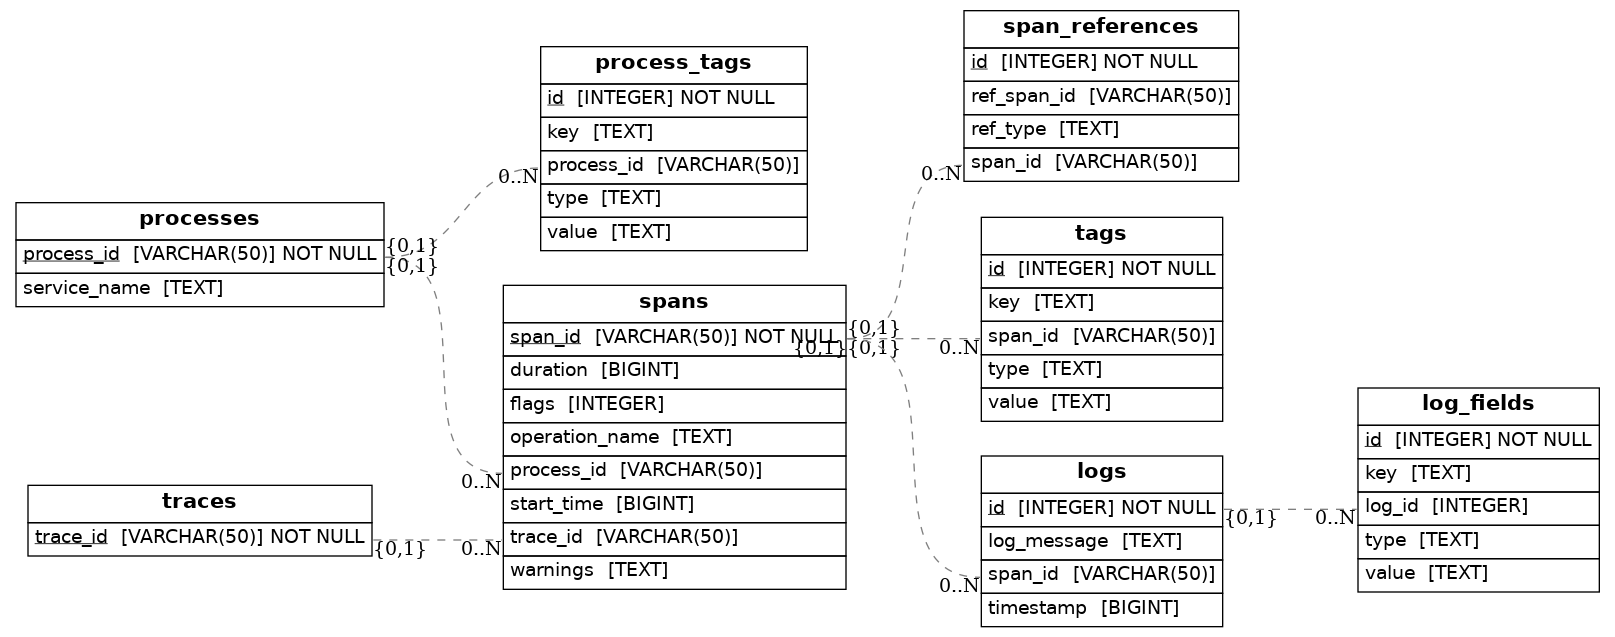
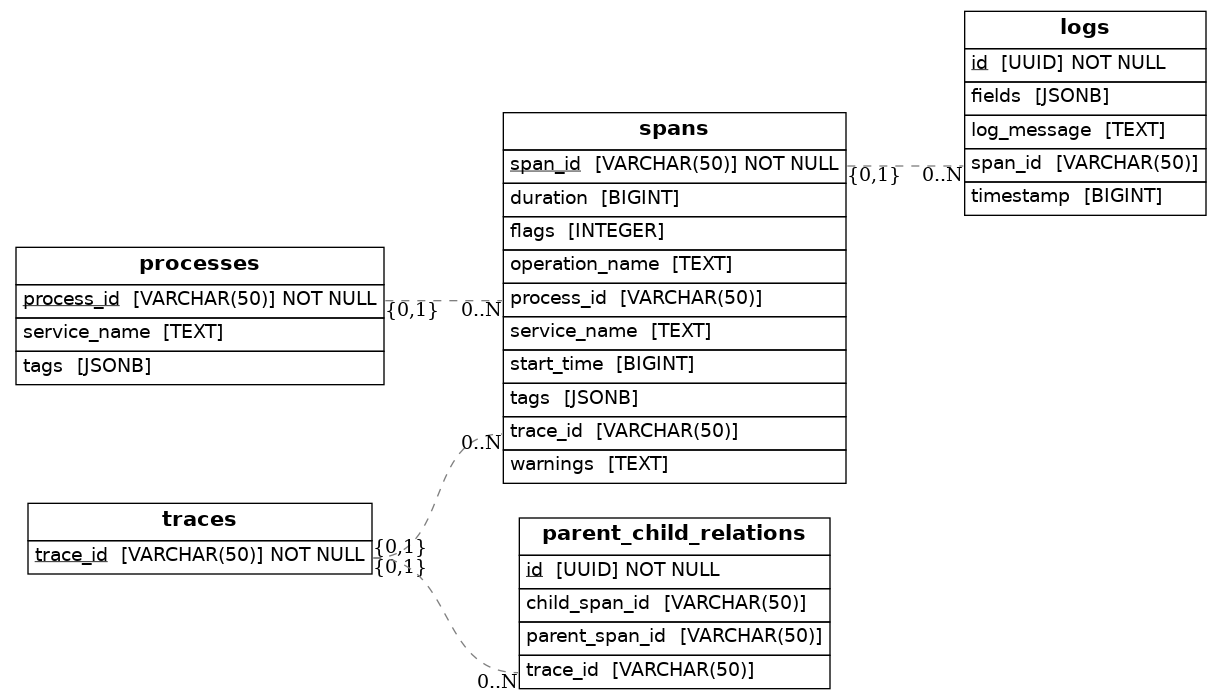
latest feedback incorporated

Changed region(s): [[0.0, 0.0, 0.9959, 1.0]]

diff --git a/app.py b/app.py
@@ -2,11 +2,13 @@ import argparse
 import json
 import os
 import logging
-from sqlalchemy import create_engine, Column, String, Integer, BigInteger, Text, ForeignKey
-from sqlalchemy.orm import relationship, sessionmaker, declarative_base
+from sqlalchemy import create_engine, Column, String, Integer, BigInteger, Text, ForeignKey, JSON
+from sqlalchemy.dialects.postgresql import JSONB, UUID
+from sqlalchemy.orm import sessionmaker, declarative_base
 from dotenv import load_dotenv
 from urllib.parse import quote
 from eralchemy import render_er
+import uuid
 
 # Load environment variables
 load_dotenv()
@@ -21,76 +23,44 @@ Base = declarative_base()
 class Trace(Base):
     __tablename__ = 'traces'
     trace_id = Column(String(50), primary_key=True)
-    # spans = relationship("Span", back_populates="trace")
 
 
 class Span(Base):
     __tablename__ = 'spans'
     span_id = Column(String(50), primary_key=True)
     trace_id = Column(String(50), ForeignKey('traces.trace_id'))
-    operation_name = Column(Text)
+    operation_name = Column(Text, index=True)
     flags = Column(Integer)
     start_time = Column(BigInteger)
     duration = Column(BigInteger)
     process_id = Column(String(50), ForeignKey('processes.process_id'))
+    service_name = Column(Text)
     warnings = Column(Text, nullable=True)
-    # omitting these as we're just inserting data and won't be using ORM to access data
-    # tags = relationship("Tag", back_populates="span")
-    # logs = relationship("Log", back_populates="span")
-    # trace = relationship("Trace", back_populates="spans")
+    tags = Column(JSONB)  # JSON array for tags
 
 
-class SpanReference(Base):
-    __tablename__ = 'span_references'
-    id = Column(Integer, primary_key=True, autoincrement=True)
-    span_id = Column(String(50), ForeignKey('spans.span_id'))
-    ref_type = Column(Text)  # "CHILD_OF" or "FOLLOWS_FROM"
-    ref_span_id = Column(String(50)) # the referenced span (parent or prior)
-
-
-class Tag(Base):
-    __tablename__ = 'tags'
-    id = Column(Integer, primary_key=True, autoincrement=True)
-    span_id = Column(String(50), ForeignKey('spans.span_id'))
-    key = Column(Text)
-    type = Column(Text)
-    value = Column(Text)
-    # span = relationship("Span", back_populates="tags")
+class ParentChildRelation(Base):
+    __tablename__ = 'parent_child_relations'
+    id = Column(UUID(as_uuid=True), primary_key=True, default=uuid.uuid4)
+    trace_id = Column(String(50), ForeignKey('traces.trace_id'))
+    child_span_id = Column(String(50))
+    parent_span_id = Column(String(50))
 
 
 class Log(Base):
     __tablename__ = 'logs'
-    id = Column(Integer, primary_key=True, autoincrement=True)
+    id = Column(UUID(as_uuid=True), primary_key=True, default=uuid.uuid4)
     span_id = Column(String(50), ForeignKey('spans.span_id'))
     timestamp = Column(BigInteger)
     log_message = Column(Text, nullable=True)
-    # span = relationship("Span", back_populates="logs")
-
-
-class LogField(Base):
-    __tablename__ = 'log_fields'
-    id = Column(Integer, primary_key=True, autoincrement=True)
-    log_id = Column(Integer, ForeignKey('logs.id'))
-    key = Column(Text)
-    type = Column(Text)
-    value = Column(Text)
+    fields = Column(JSONB)  # JSON array for log fields
 
 
 class Process(Base):
     __tablename__ = 'processes'
     process_id = Column(String(50), primary_key=True)
     service_name = Column(Text)
-    # tags = relationship("ProcessTag", back_populates="process")
-
-
-class ProcessTag(Base):
-    __tablename__ = 'process_tags'
-    id = Column(Integer, primary_key=True, autoincrement=True)
-    process_id = Column(String(50), ForeignKey('processes.process_id'))
-    key = Column(Text)
-    type = Column(Text)
-    value = Column(Text)
-    # process = relationship("Process", back_populates="tags")
+    tags = Column(JSONB)  # JSON array for process tags
 
 
 def get_engine():
@@ -102,20 +72,22 @@ def get_engine():
 
 def insert_data(session, trace_data):
     for trace in trace_data['data']:
-
         trace_obj = Trace(trace_id=trace['traceID'])
         session.merge(trace_obj)
 
         processes = trace.get('processes', {})
         for process_id, process_data in processes.items():
-            process_obj = Process(process_id=process_id, service_name=process_data['serviceName'])
+            tags = [{tag['key']: tag['value']} for tag in process_data.get('tags', [])]
+            process_obj = Process(
+                process_id=process_id,
+                service_name=process_data['serviceName'],
+                tags=tags
+            )
             session.merge(process_obj)
 
-            for tag in process_data.get('tags', []):
-                tag_obj = ProcessTag(process_id=process_id, key=tag['key'], type=tag['type'], value=str(tag['value']))
-                session.add(tag_obj)
-
         for span in trace['spans']:
+            tags = [{tag['key']: tag['value']} for tag in span.get('tags', [])]
+            service_name = processes.get(span['processID'], {}).get('serviceName', None)
             span_obj = Span(
                 span_id=span['spanID'],
                 trace_id=span['traceID'],
@@ -124,31 +96,38 @@ def insert_data(session, trace_data):
                 start_time=span['startTime'],
                 duration=span['duration'],
                 process_id=span['processID'],
+                service_name=service_name,
                 warnings=span.get('warnings'),
+                tags=tags
             )
             session.merge(span_obj)
 
-            references_list = span.get('references', [])
-            for ref in references_list:
-                ref_obj = SpanReference(
-                    span_id=span['spanID'],
-                    ref_type=ref.get('refType'),
-                    ref_span_id=ref.get('spanID')
+            for ref in span.get('references', []):
+                if ref['refType'] == "CHILD_OF":
+                    child_span_id = span['spanID']
+                    parent_span_id = ref.get('spanID')
+                elif ref['refType'] == "FOLLOWS_FROM":
+                    parent_span_id = span['spanID']
+                    child_span_id = ref.get('spanID')
+                else:
+                    continue
+
+                ref_obj = ParentChildRelation(
+                    trace_id=span['traceID'],
+                    child_span_id=child_span_id,
+                    parent_span_id=parent_span_id
                 )
                 session.add(ref_obj)
 
-            for tag in span.get('tags', []):
-                tag_obj = Tag(span_id=span['spanID'], key=tag['key'], type=tag['type'], value=str(tag['value']))
-                session.add(tag_obj)
-
             for log in span.get('logs', []):
-                log_obj = Log(span_id=span['spanID'], timestamp=log['timestamp'], log_message=log.get('message'))
+                fields = [{field['key']: field['value']} for field in log.get('fields', [])]
+                log_obj = Log(
+                    span_id=span['spanID'],
+                    timestamp=log['timestamp'],
+                    log_message=log.get('message'),
+                    fields=fields
+                )
                 session.add(log_obj)
-                session.flush()  # To retrieve the auto-generated log_id
-
-                for field in log.get('fields', []):
-                    field_obj = LogField(log_id=log_obj.id, key=field['key'], type=field['type'], value=str(field['value']))
-                    session.add(field_obj)
 
     session.commit()
 
@@ -179,8 +158,6 @@ def main():
 
     with session_factory() as session:
         insert_data(session, trace_data)
-
-    insert_data(session, trace_data)
 
     generate_erd()
 
